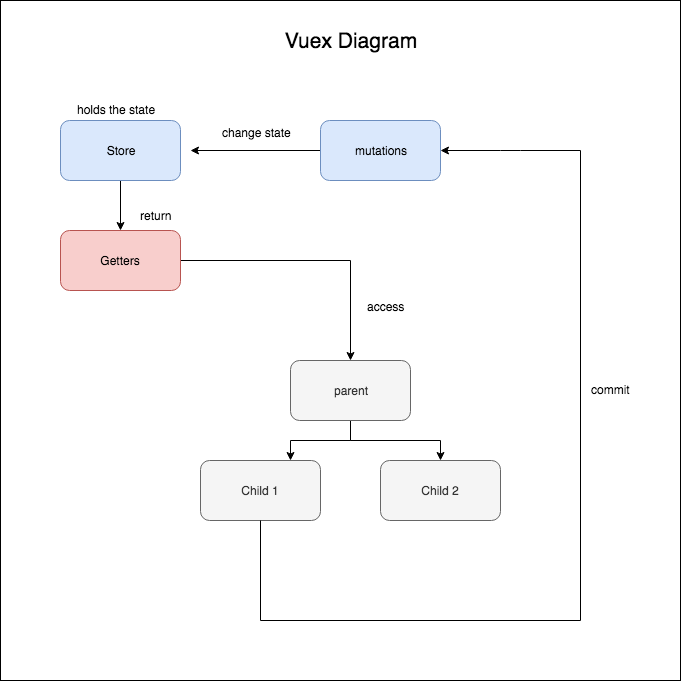
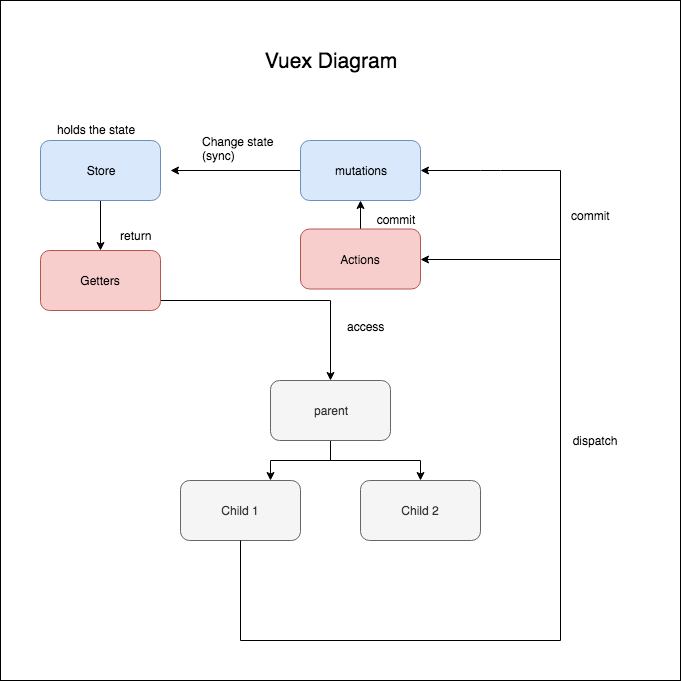
vuex note, completed

diff --git a/Vuex.md b/Vuex.md
@@ -17,6 +17,21 @@ export const store = new Vuex.Store({
 		doubleValue: state => {
 			return state.name * 2;
 		}
+	},
+	mutations: {
+		increment: (state, payload) => {
+			state.name++;
+			state.name += payload;
+		}
+	},
+	actions: {
+		increment: context => {
+			context.commit('increment');
+		},
+		increment2: ({ commit }, payload) => {
+			commit('increment', payload);
+		},
+
 	}
 });
 
@@ -40,15 +55,33 @@ new Vue({
 	
 	computed:{
 		...mapGetters([ // here u add three dots becuase then u can mix your own computed 
-						//properties with the ones from map getters as well
-						// having this will cause an unexpected syntax error but it can be easily resolved with
-						// npm install --save-dev babel-preset-stage-2
-						// after the command runs, go to .babelrc add ["stage-2"] as a new preset.
+					//properties with the ones from map getters as well
+					// having this will cause an unexpected syntax error but it can be easily resolved with
+					// npm install --save-dev babel-preset-stage-2
+					// after the command runs, go to .babelrc add ["stage-2"] as a new preset.
 		'doubleValue',
 		//...
 		]);
 	}
-
+	methods: {
+		increment() {
+			this.$store.commit('increment');
+		}		 
+	}
+	// or
+	import { mapMutations } from 'vuex';
+	methods: {
+		...mapMutations([
+			'increment',
+		])
+	}
+	// or 
+	import { mapActions } from 'vuex';
+	methods: {
+		...mapActions(
+			//...	
+		)		 
+	}
 	this.$store.state.name++;
 	// or 
 	return this.$store.getters.doubleValue;
